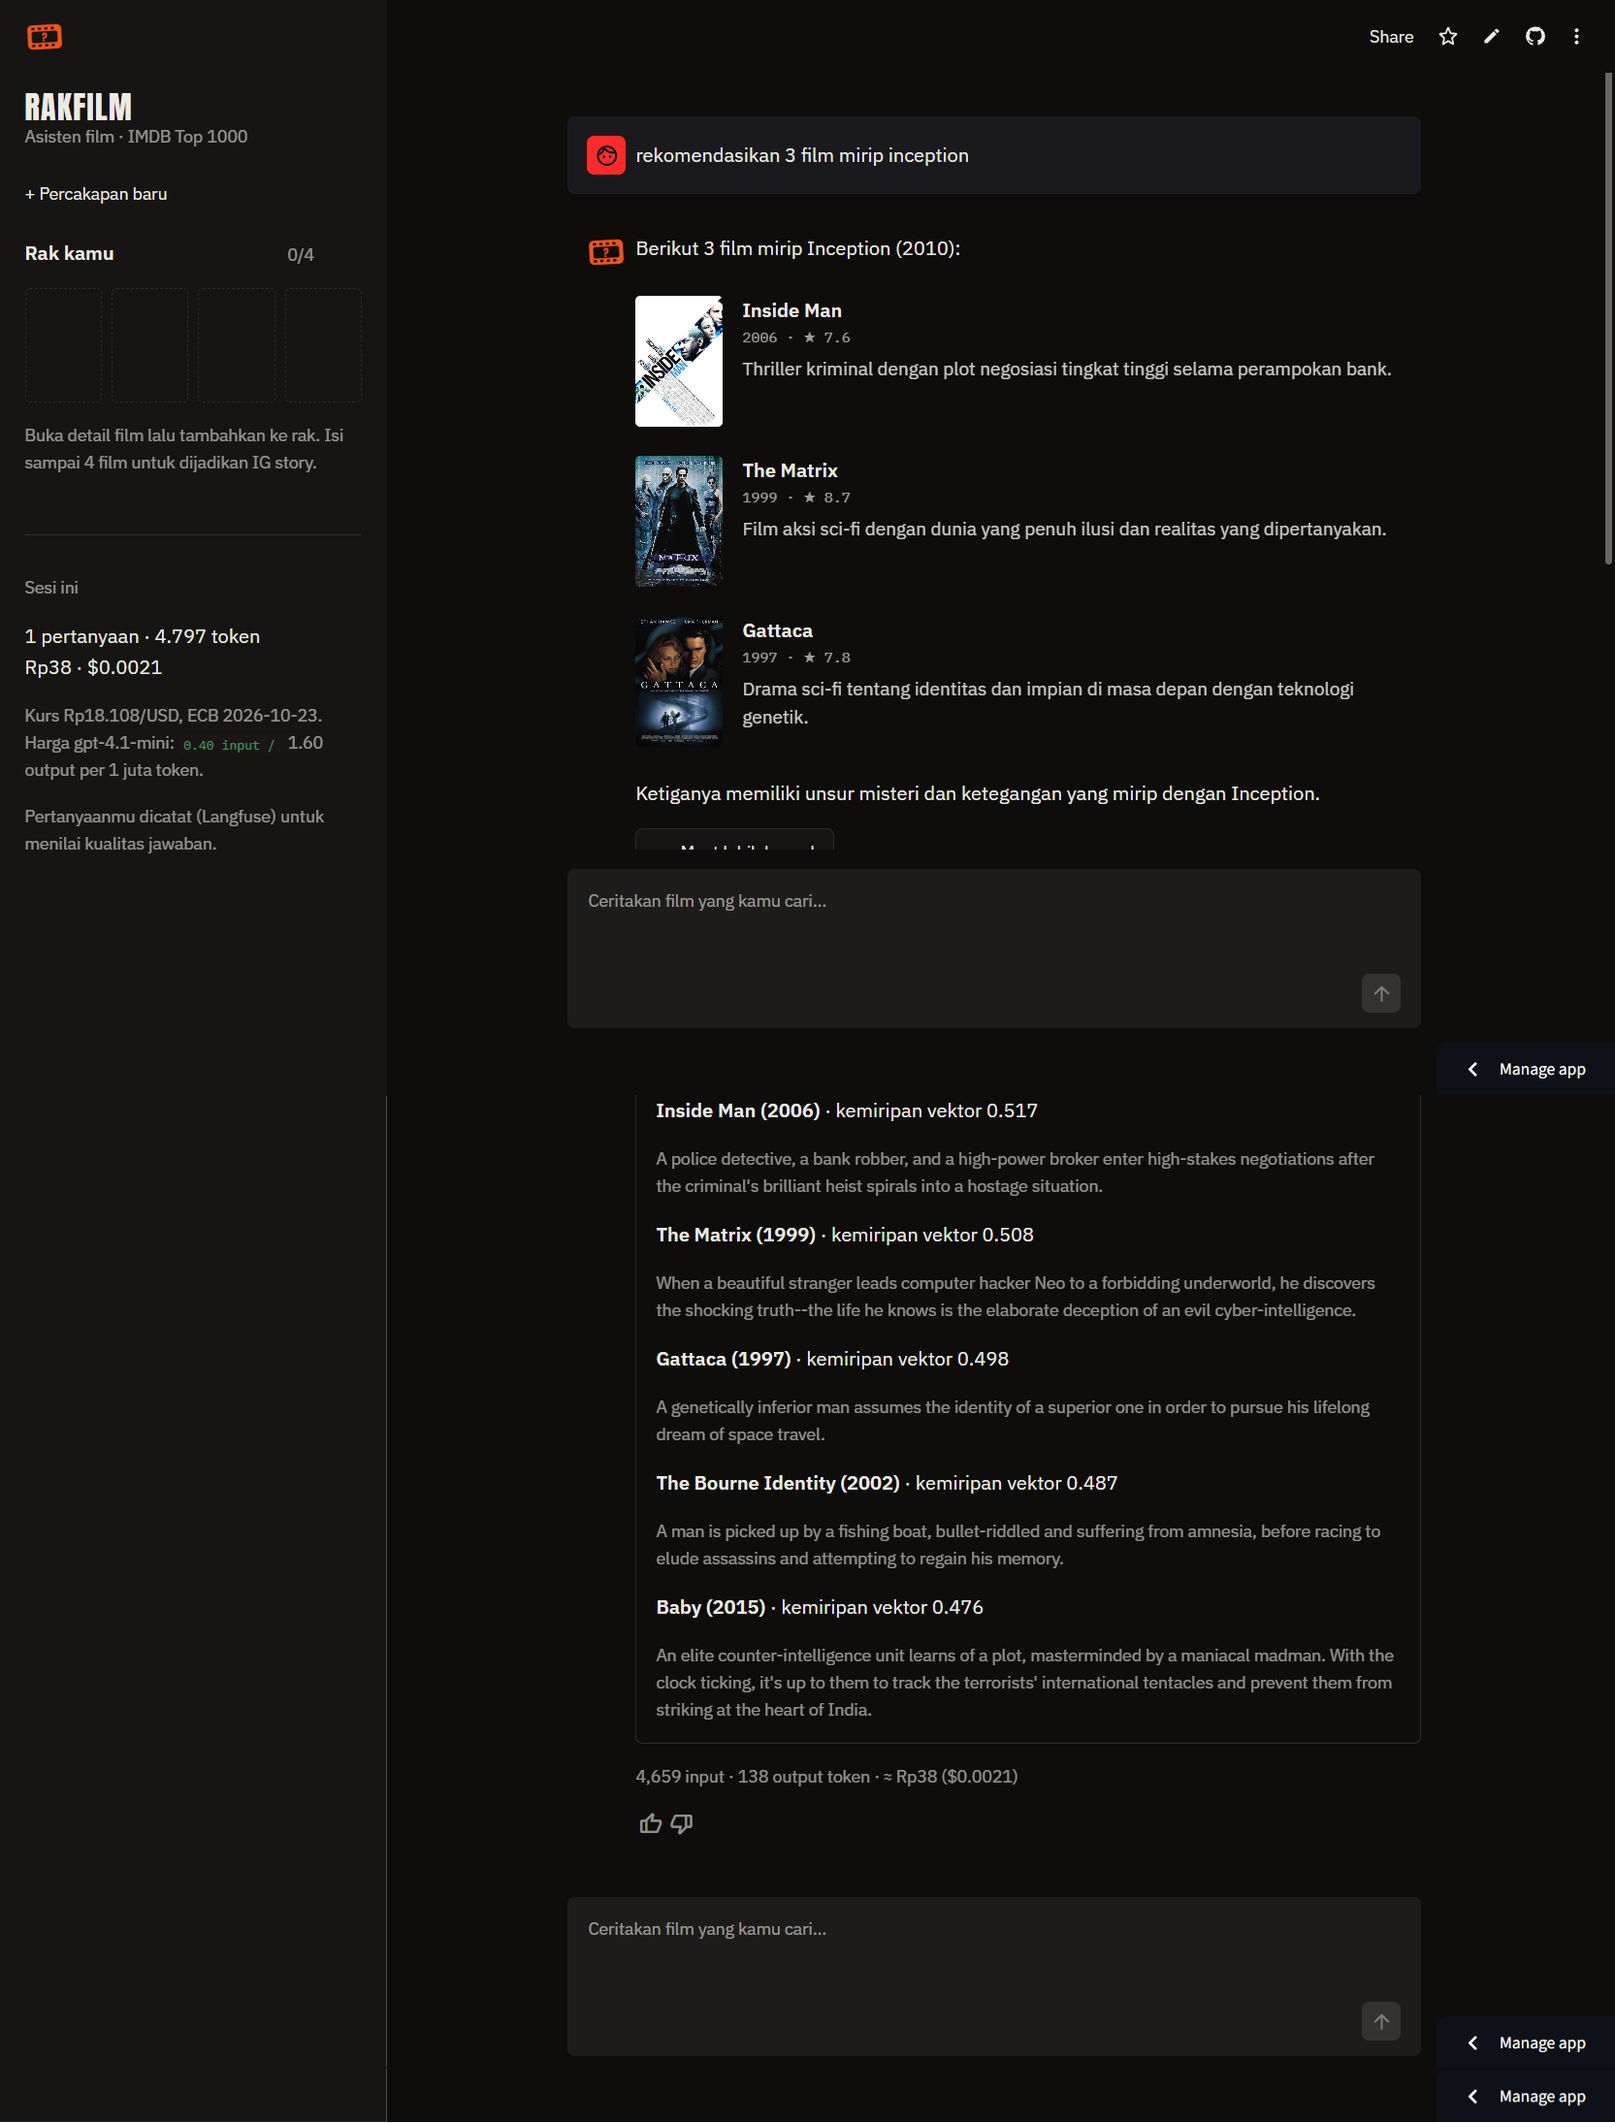
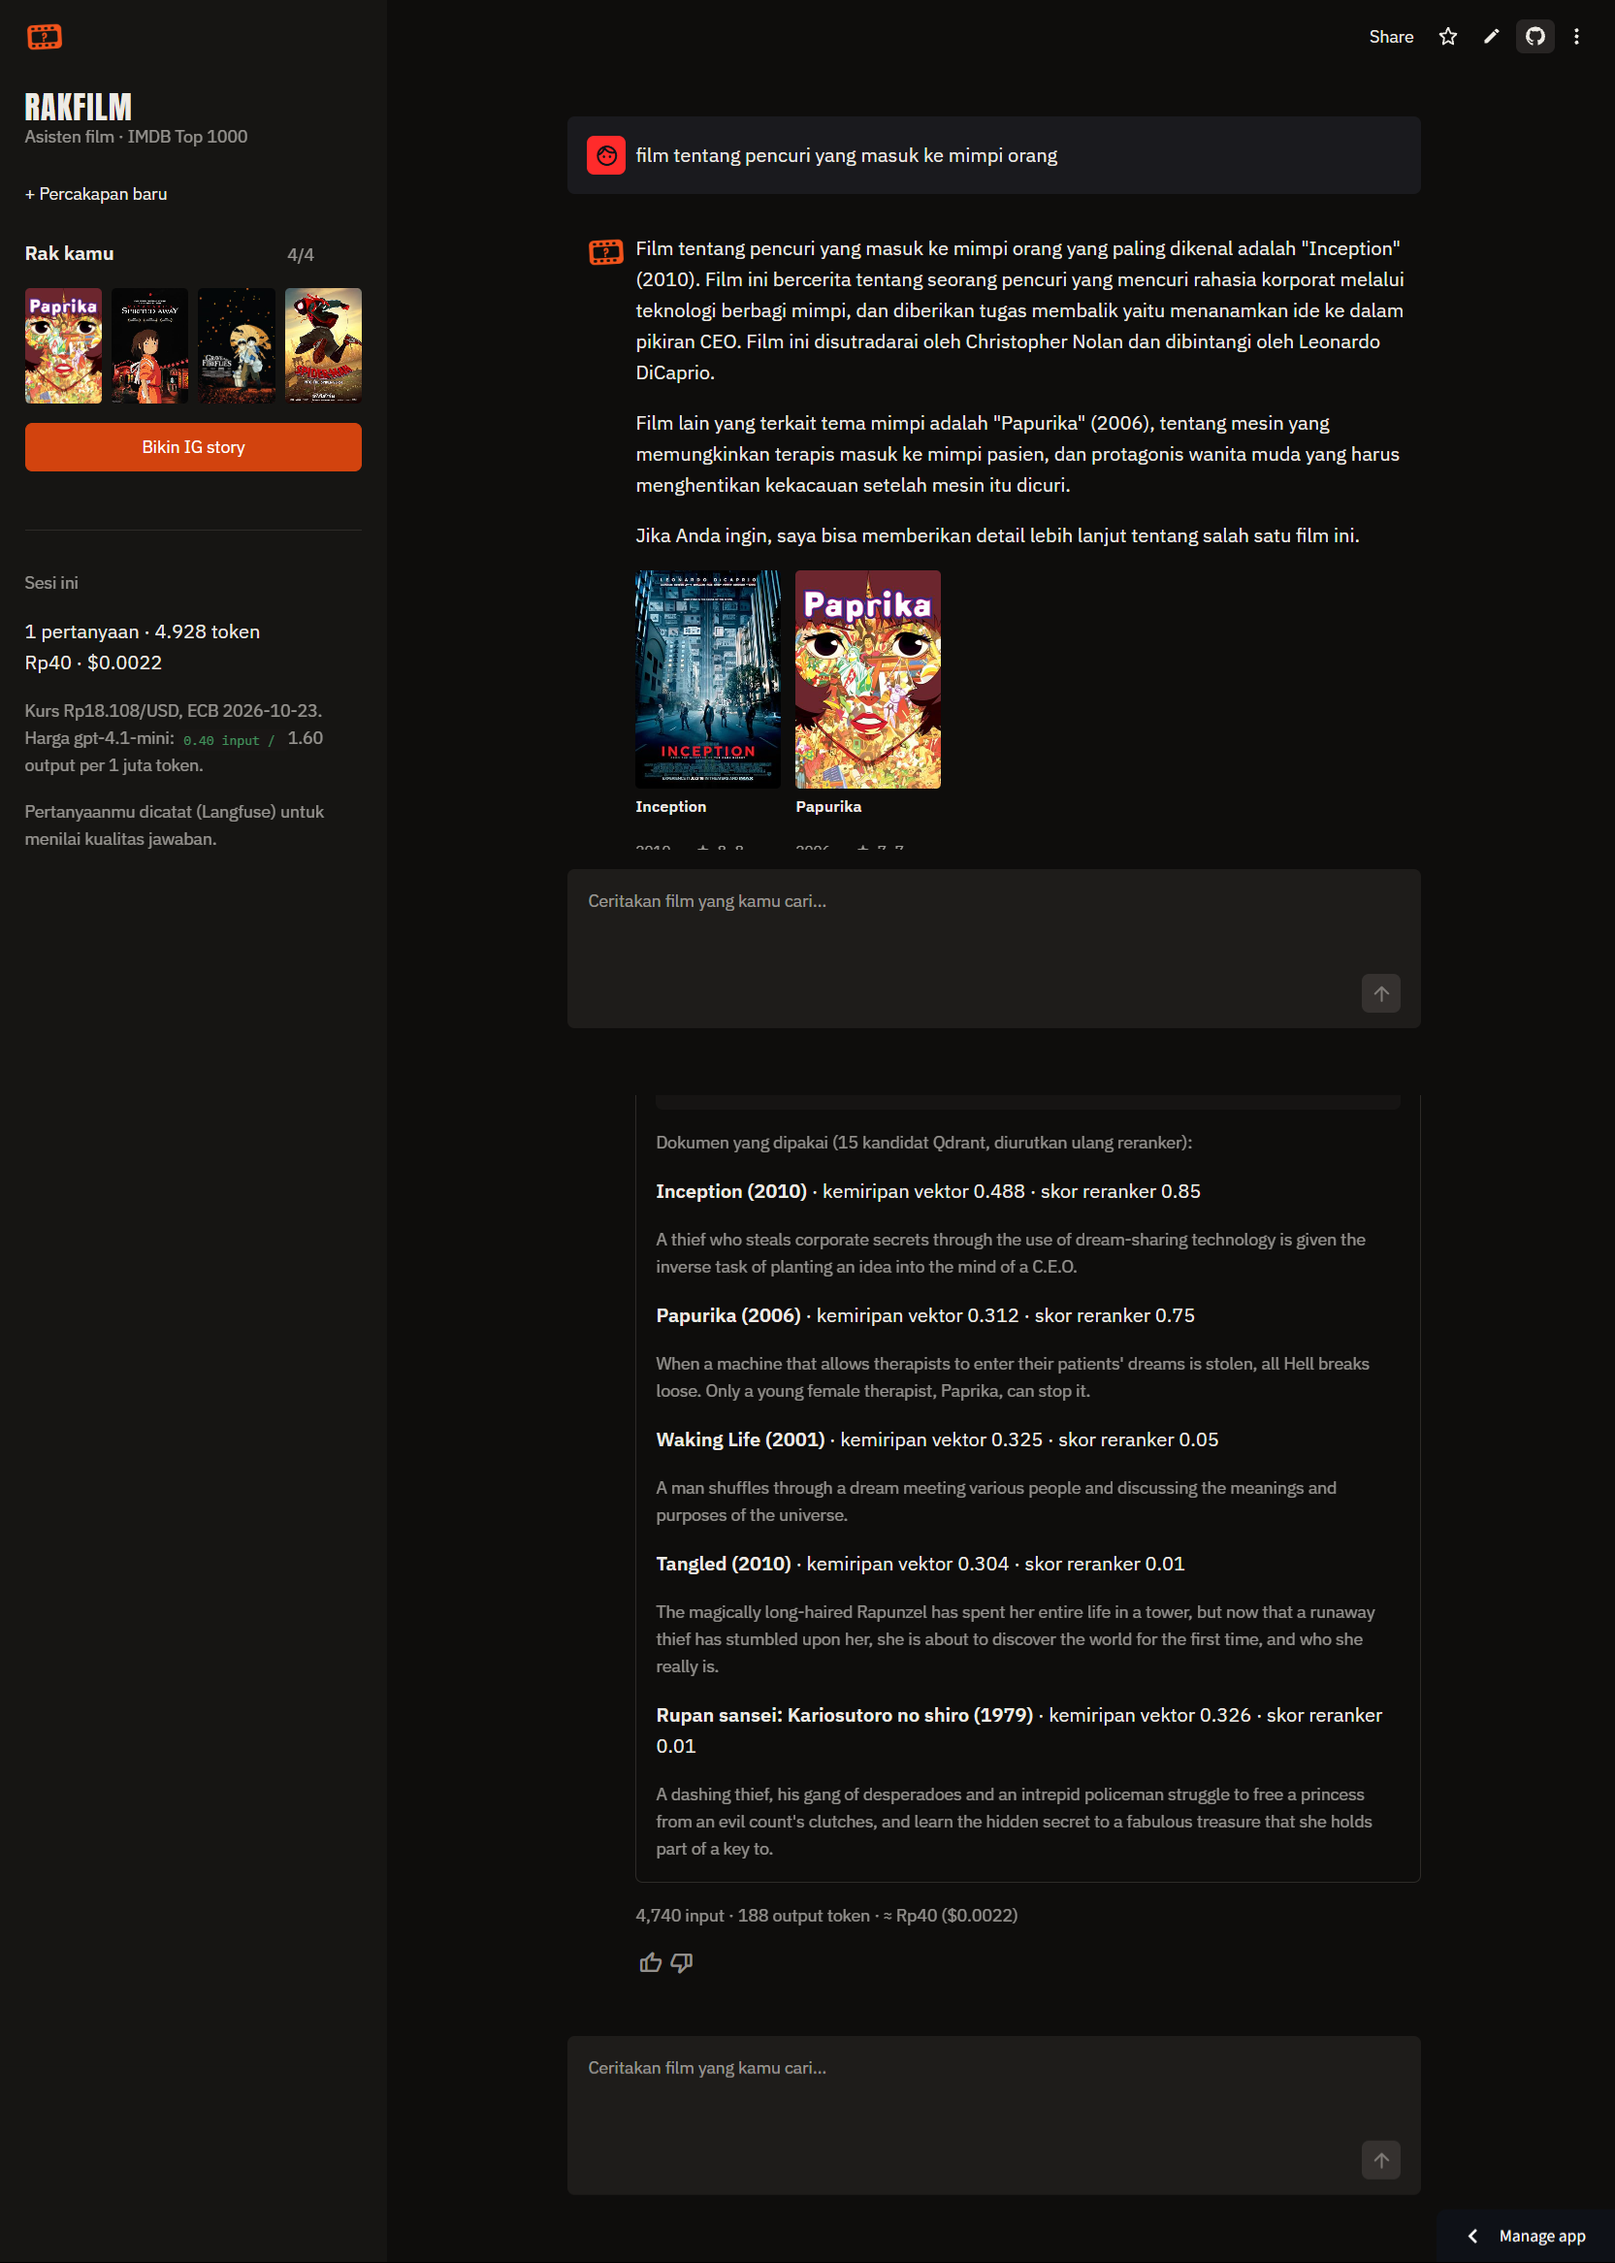
docs: screenshot jawaban baru dengan skor reranker

diff --git a/notes/progress.md b/notes/progress.md
@@ -135,7 +135,7 @@
 - [ ] **LICENSE:** belum dipikirkan, putuskan nanti (MIT satu file, atau biarkan; lisensi dataset Kaggle juga belum dipastikan). **Reiner: tidak perlu sekarang, ingatkan saat menjelang pengumpulan (sebelum 8 Nov).**
 - [ ] Link **Google Form** belum diterima dari operasional; cek isian selain repo, video, app, akses Qdrant
 - [ ] Top-up OpenRouter kalau mepet: key punya batas $5 (sisa ±$2,8), saldo akun ±$6
-- [ ] Opsional: ambil ulang `docs/img/jawaban-tool-call.png` (gabungan dua tangkapan: kotak input ganda, kartu ketiga terpotong, tombol Manage app terlihat)
+- [x] `docs/img/jawaban-tool-call.png` diganti dengan tangkapan skor reranker (25 Okt); dua tombol Manage app di tengah dihapus. Sisa: kotak input ganda dari scroll-capture
 - [ ] Video ditunda sampai Reiner selesai menjelajah app
 
 - [ ] **Perbarui artefak "Anatomi Capstone 3"** (link sama): Pak Herman sudah menerimanya lewat WA (25 Okt) sebagai "Penjelasan arsitektur & stack", padahal isinya masih 3 tool, tanpa reranker, prompt v2, dan app/repo "private". Jangan dihapus
